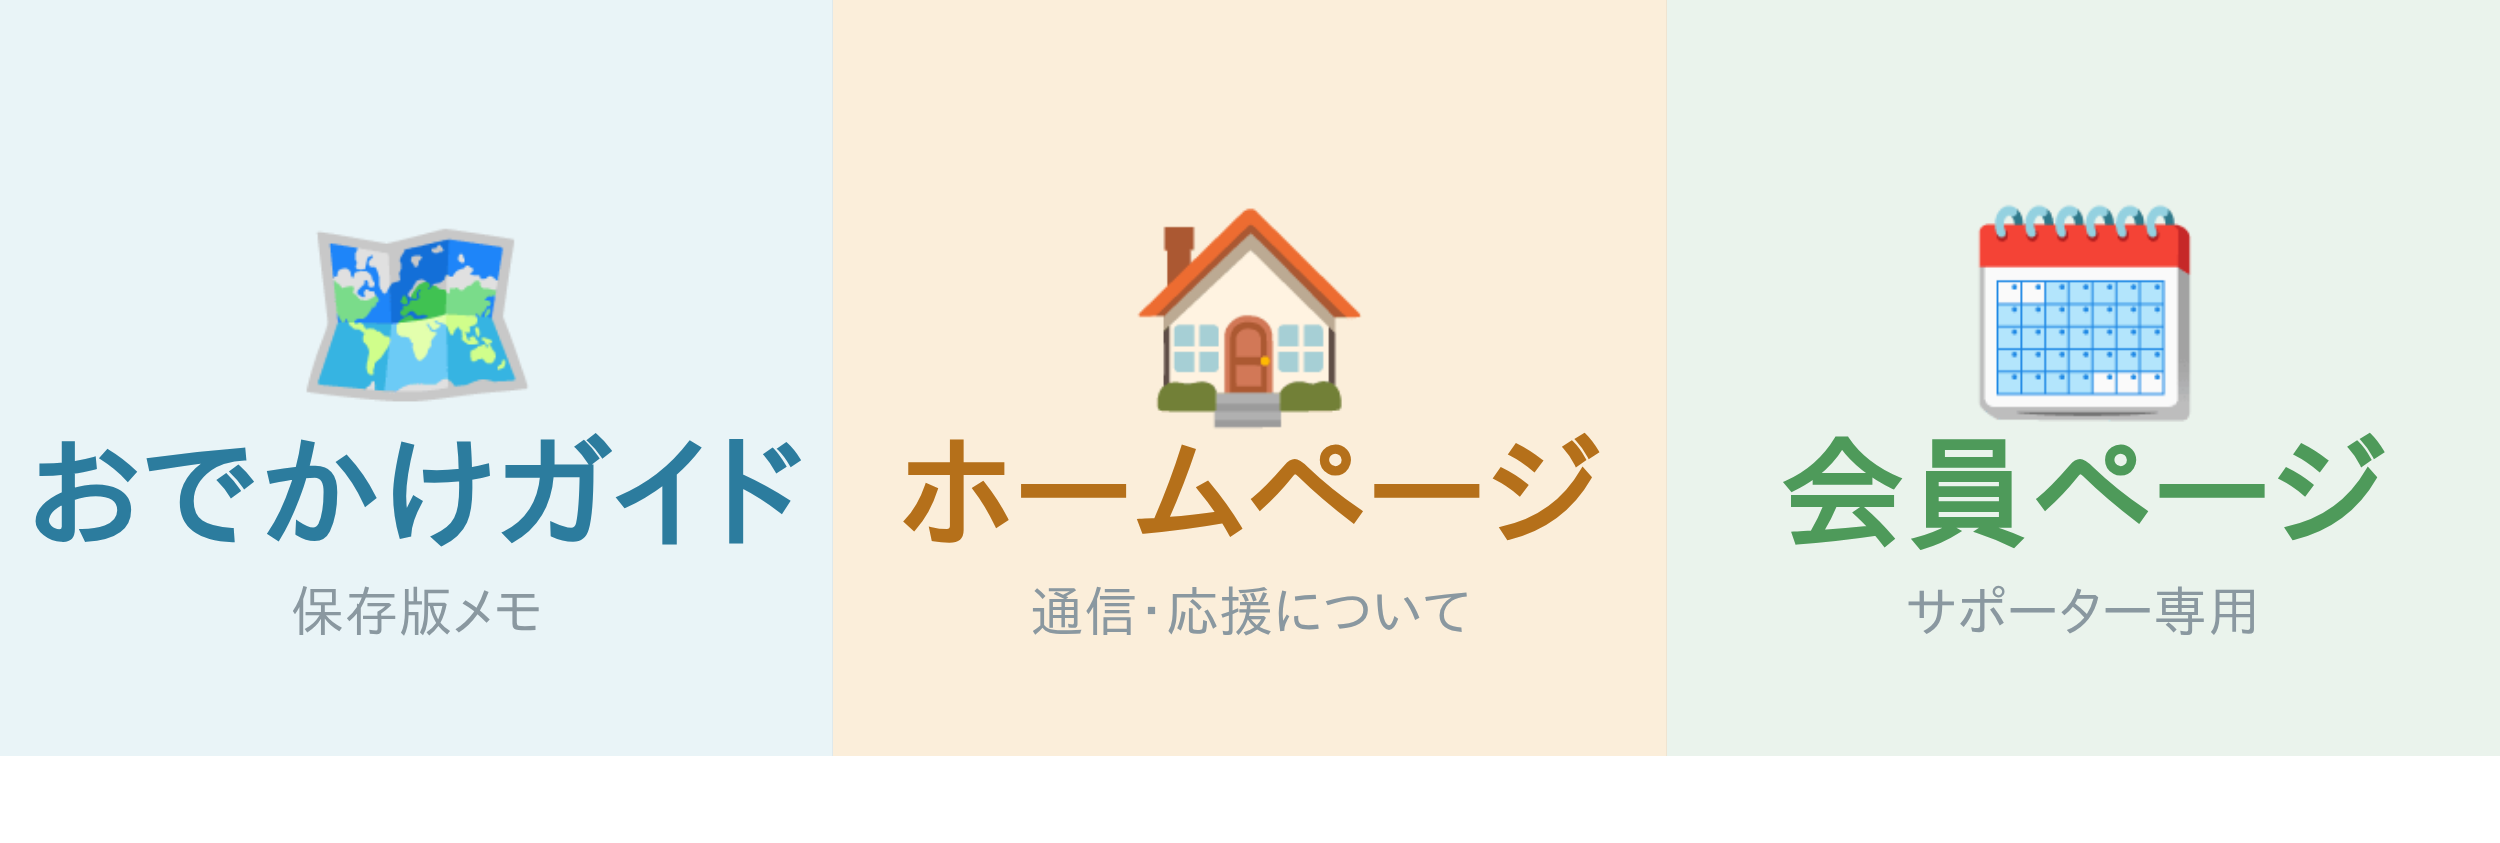
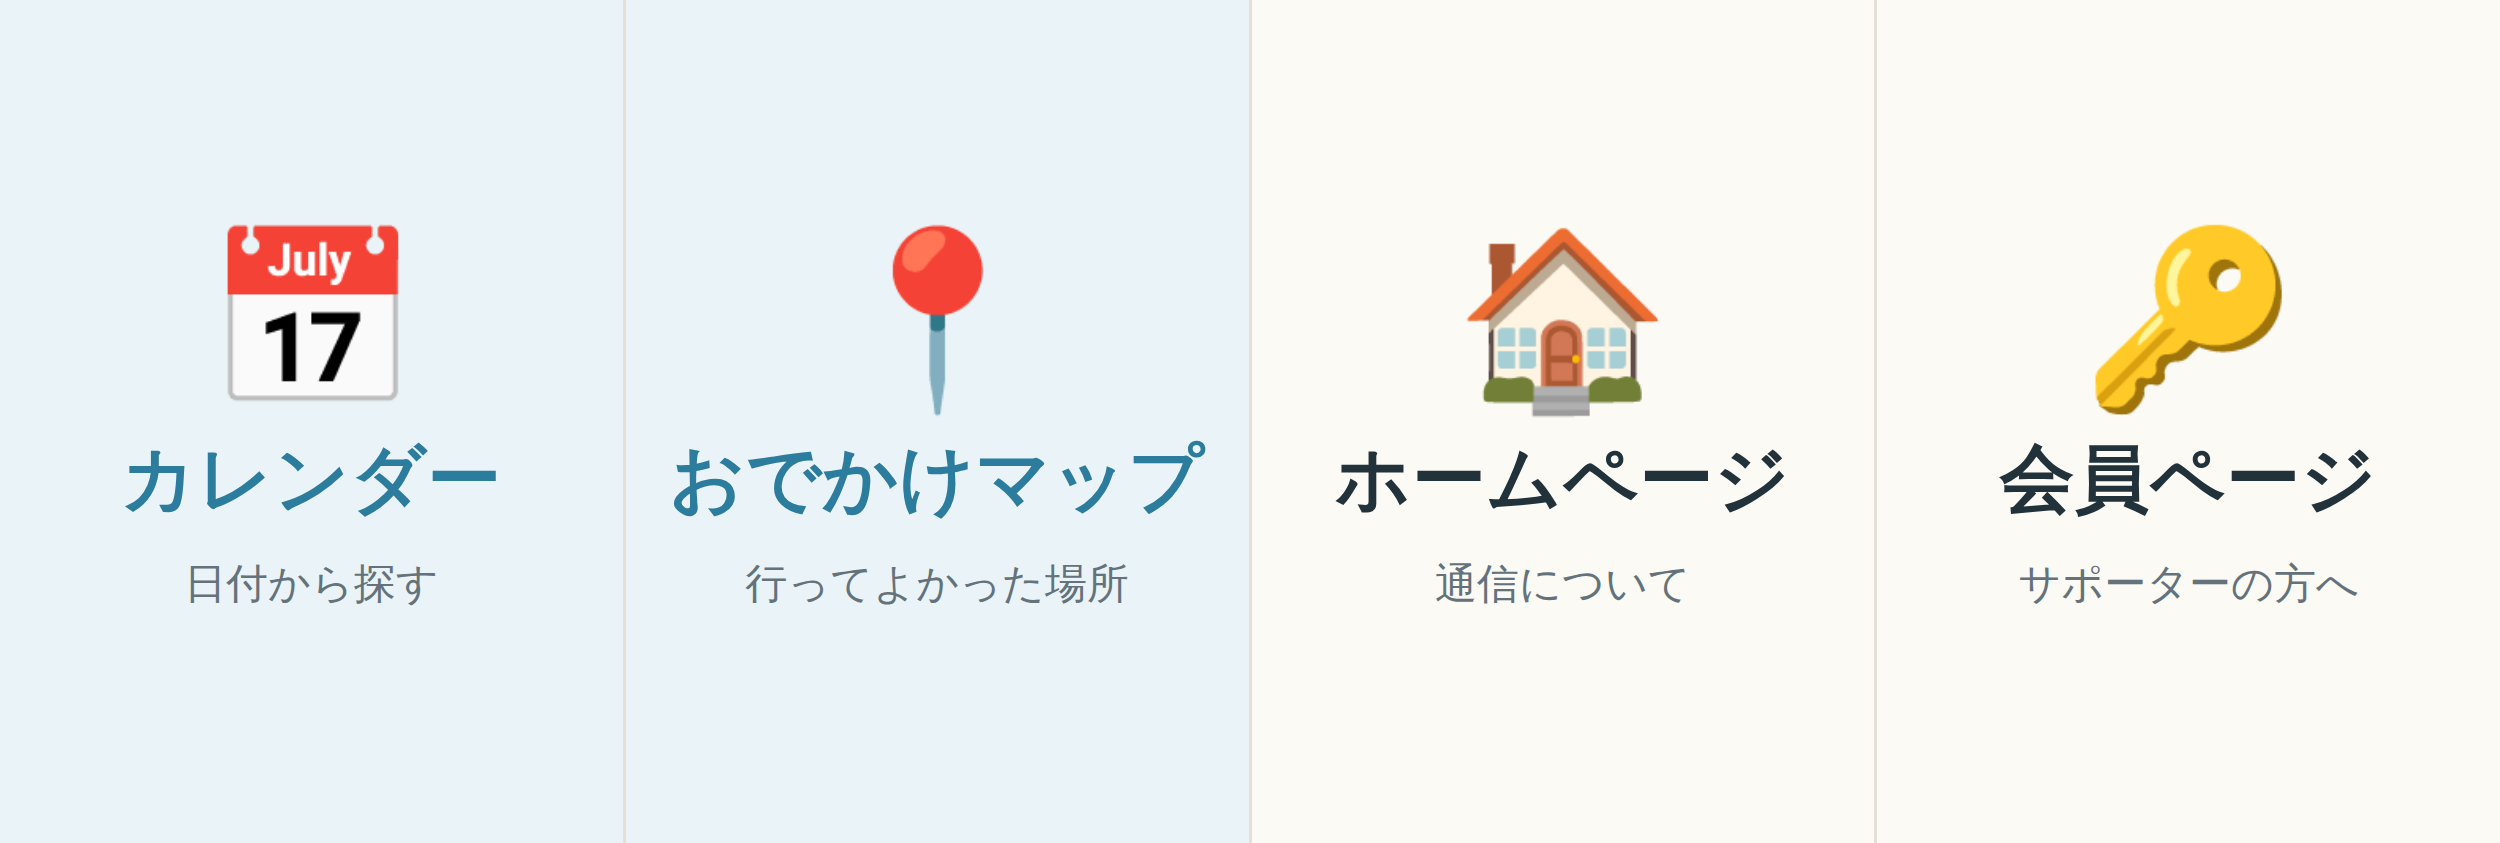
全ページ共通のサイトナビを追加し、マップとカレンダーを主役にする
- assets/bv-nav.css: index/calendar/map で共通のstickyナビ。
  index.html は共通トークンを読まないため、このCSSだけで完結させた
- 狭い画面ではラベルを詰めて1行に収める(390pxで90px→52px)
- おでかけガイドを導線から除外(オーナー判断: 実用性が低い)
  - ナビ・index.htmlのカードからリンク削除、noindex、sitemapから除外
  - ファイル自体は残す(復帰可能にするため)
- リッチメニューを3ボタン→4ボタンに刷新。カレンダーとマップを左半分に配置
  座標と設定先を share-kit.md に記載。会員ページは維持

Claude-Session: https://claude.ai/code/session_01TyaNTcqynAhK5RxtQUWRVv

diff --git a/docs/homepage/index.html b/docs/homepage/index.html
@@ -369,8 +369,21 @@
   ]
 }
 </script>
+<link rel="stylesheet" href="/assets/bv-nav.css">
 </head>
 <body>
+<nav class="bvnav" aria-label="サイト内">
+  <div class="bvnav-in">
+    <a class="bvnav-brand" href="/">ぼんぼやーじゅ通信</a>
+    <div class="bvnav-links">
+      <a href="/" aria-current="page" class="bv-hide-sm">通信について</a>
+      <a href="/calendar.html"><span class="bv-lg">おでかけ</span>カレンダー</a>
+      <a href="/map.html"><span class="bv-lg">おでかけ</span>マップ</a>
+      <a class="bvnav-cta" href="https://lin.ee/YtcfjnX" target="_blank" rel="noopener">LINE<span class="bv-lg">で受け取る</span></a>
+    </div>
+  </div>
+</nav>
+
 <header class="hero">
   <div class="hero-inner">
     <div class="eyebrow fade">Bon Voyage,</div>
@@ -445,7 +458,7 @@
         <span class="d">2026 / 8 / 26（水）号</span>
       </div>
       <div class="issue-body">
-        <p class="issue-asof">この号は <b>2026 / 8 / 26（水）</b> にお届けした内容です。「今週末」「本日」はその時点のことなので、いまの予定は<a href="/calendar.html">おでかけカレンダー</a>でご確認ください。</p>
+        <p class="issue-asof">この号は <b>2026 / 8 / 26（水）</b> にお届けした内容です。「今週末」「本日」はその時点のことなので、いまの予定は<a href="/calendar.html"><span class="bv-lg">おでかけ</span>カレンダー</a>でご確認ください。</p>
         <p class="issue-legend">〔目安〕👶あかちゃん(0-2) ／ 🧒未就学(3-6) ／ 🎒小学生　◎ぴったり ○だいじょうぶ △ひと工夫</p>
 
         <div class="blk">
@@ -500,15 +513,8 @@
           <span><span data-bv-post="on" hidden>「行ってよかった」を地元の家庭で持ち寄っている地図。<b>このページから直接書き込めます</b></span><span data-bv-post="off">「行ってよかった」を地元の家庭で持ち寄っている地図。<b>LINEでひとことお寄せいただけます</b></span></span>
         </span>
       </a>
-      <a class="tool" href="guide.html">
-        <span class="tool-ic">🌳</span>
-        <span class="tool-body">
-          <b>保存版：子連れおでかけガイド</b>
-          <span>じゃぶじゃぶ池・大きな公園・雨の日の室内あそび・電車でおでかけ</span>
-        </span>
-      </a>
     </div>
-    <p class="support-line">通信も、この3つの道具も、どなたでも無料でお使いいただけます。
+    <p class="support-line">通信も、この2つの道具も、どなたでも無料でお使いいただけます。
       続けていくための<a href="#more">応援のしかた</a>もご用意しています。</p>
   </section>
 

diff --git a/docs/homepage/assets/bv-nav.css b/docs/homepage/assets/bv-nav.css
@@ -1,0 +1,32 @@
+/* 全ページ共通のサイトナビ。
+   index / calendar / map のどれからでも行き来できるようにする。
+   index.html は共通トークンを読み込んでいないので、**このファイルだけで完結**させる。 */
+.bvnav{position:sticky;top:0;z-index:900;background:rgba(251,250,245,.92);
+  backdrop-filter:saturate(1.4) blur(10px);border-bottom:1px solid #E6E0D4;}
+.bvnav-in{max-width:960px;margin:0 auto;padding:9px 16px;display:flex;align-items:center;gap:14px;}
+.bvnav-brand{font-weight:800;font-size:15px;color:#2C7C9E;text-decoration:none;letter-spacing:.02em;flex:none;}
+.bvnav-links{display:flex;gap:4px;margin-left:auto;align-items:center;flex-wrap:wrap;justify-content:flex-end;}
+.bvnav-links a{font-size:13.5px;font-weight:700;color:#44555F;text-decoration:none;
+  padding:7px 11px;border-radius:999px;white-space:nowrap;}
+.bvnav-links a:hover{background:#EAF4F8;color:#2C7C9E;}
+.bvnav-links a[aria-current="page"]{background:#EAF4F8;color:#2C7C9E;}
+.bvnav-cta{background:#06C755 !important;color:#fff !important;padding:7px 14px !important;}
+.bvnav-cta:hover{background:#05b34c !important;color:#fff !important;}
+@media (max-width:520px){
+  .bvnav-in{padding:8px 12px;gap:8px;}
+  .bvnav-brand{font-size:13.5px;}
+  .bvnav-links a{font-size:12.5px;padding:6px 9px;}
+  .bvnav-cta{padding:6px 11px !important;}
+}
+@media (prefers-color-scheme:dark){
+  .bvnav{background:rgba(19,31,40,.92);border-bottom-color:#2A3B45;}
+  .bvnav-links a{color:#C6D4DB;}
+  .bvnav-links a:hover,.bvnav-links a[aria-current="page"]{background:#1D3944;color:#9AD4EA;}
+}
+
+/* 狭い画面では表記を詰めて1行に収める（stickyなので高さが命） */
+@media (max-width:560px){
+  .bv-hide-sm{display:none !important;}
+  .bv-lg{display:none;}
+  .bvnav-links{gap:2px;}
+}

diff --git a/docs/homepage/map.html b/docs/homepage/map.html
@@ -51,8 +51,21 @@
 
   #post { margin: 2.6rem 0 0; scroll-margin-top: 1.5rem; }
 </style>
+<link rel="stylesheet" href="/assets/bv-nav.css">
 </head>
 <body>
+<nav class="bvnav" aria-label="サイト内">
+  <div class="bvnav-in">
+    <a class="bvnav-brand" href="/">ぼんぼやーじゅ通信</a>
+    <div class="bvnav-links">
+      <a href="/" class="bv-hide-sm">通信について</a>
+      <a href="/calendar.html"><span class="bv-lg">おでかけ</span>カレンダー</a>
+      <a href="/map.html" aria-current="page"><span class="bv-lg">おでかけ</span>マップ</a>
+      <a class="bvnav-cta" href="https://lin.ee/YtcfjnX" target="_blank" rel="noopener">LINE<span class="bv-lg">で受け取る</span></a>
+    </div>
+  </div>
+</nav>
+
 <header class="ghead">
   <div class="ghead-in">
     <div class="eyebrow">Bon Voyage,</div>
@@ -60,9 +73,8 @@
     <p class="sub">花小金井まわりで「行ってよかった」場所を、地元の家庭の声とあわせて集めています。地図のピンをタップすると、その場所を地図で開けます。</p>
     <div class="count">掲載スポット 23件（地図のピン 19件）</div>
     <div class="nav-pills">
-      <a href="/">通信について</a>
-      <a href="/calendar.html">おでかけカレンダー</a>
-      <a href="/guide.html">おでかけガイド</a>
+      <a href="/" class="bv-hide-sm">通信について</a>
+      <a href="/calendar.html"><span class="bv-lg">おでかけ</span>カレンダー</a>
       <a href="#post">この地図にひとことを寄せる</a>
     </div>
   </div>

diff --git a/docs/homepage/calendar.html b/docs/homepage/calendar.html
@@ -39,8 +39,21 @@
   .fallback li { font-size: .9rem; }
   .stamp { font-size: .8rem; color: var(--ink-faint); margin-top: 2rem; }
 </style>
+<link rel="stylesheet" href="/assets/bv-nav.css">
 </head>
 <body>
+<nav class="bvnav" aria-label="サイト内">
+  <div class="bvnav-in">
+    <a class="bvnav-brand" href="/">ぼんぼやーじゅ通信</a>
+    <div class="bvnav-links">
+      <a href="/" class="bv-hide-sm">通信について</a>
+      <a href="/calendar.html" aria-current="page"><span class="bv-lg">おでかけ</span>カレンダー</a>
+      <a href="/map.html"><span class="bv-lg">おでかけ</span>マップ</a>
+      <a class="bvnav-cta" href="https://lin.ee/YtcfjnX" target="_blank" rel="noopener">LINE<span class="bv-lg">で受け取る</span></a>
+    </div>
+  </div>
+</nav>
+
 <header class="ghead">
   <div class="ghead-in">
     <div class="eyebrow">Bon Voyage,</div>
@@ -132,9 +145,8 @@
 
   <p class="stamp">情報の更新日: 2026-08-29　※日程・料金は変わることがあります。おでかけ前に各公式でご確認ください。</p>
   <div class="nav-pills">
-    <a href="/">通信について</a>
-    <a href="/map.html">おでかけマップ</a>
-    <a href="/guide.html">おでかけガイド</a>
+    <a href="/" class="bv-hide-sm">通信について</a>
+    <a href="/map.html"><span class="bv-lg">おでかけ</span>マップ</a>
   </div>
 
   <a class="back" href="/">← ぼんぼやーじゅ通信のトップへ</a>

diff --git a/docs/homepage/guide.html b/docs/homepage/guide.html
@@ -3,6 +3,7 @@
 <head>
 <meta charset="utf-8">
 <link rel="icon" href="/favicon.svg" type="image/svg+xml">
+<meta name="robots" content="noindex,nofollow">
 <meta name="viewport" content="width=device-width, initial-scale=1">
 <title>花小金井 子連れおでかけガイド｜ぼんぼやーじゅ通信</title>
 <meta name="description" content="花小金井・小平・西東京の子連れおでかけスポットまとめ。じゃぶじゃぶ池・大きな公園・図書館・児童館・電車でおでかけ・雨の日の室内あそびなど、地元の家族向けガイド。">

diff --git a/docs/share-kit.md b/docs/share-kit.md
@@ -133,11 +133,20 @@ https://bonvoya.nicomaru.tokyo/
 - **紹介文(説明)** … ホーム → 「ビジネスプロフィール」→ 基本情報の「紹介文」に貼付 → 公開
 - **背景画像・ボタン・プラグイン** … 「プロフィール」メニュー。背景を差し替え、ボタンに「ホームページ」= https://bonvoya.nicomaru.tokyo/ を追加すると◎
 - **あいさつメッセージ** … 上記「2」(友だち追加時に自動送信)
-- **リッチメニュー** … `docs/homepage/assets/richmenu.png`(2500×843・3ボタン)。タップ領域を左から均等3分割し、下記リンクを設定:
-  1. **おでかけガイド** → https://bonvoya.nicomaru.tokyo/guide.html （友だち追加特典の保存版ガイド）
-  2. **ホームページ** → https://bonvoya.nicomaru.tokyo/ （通信の紹介＋「応援する」サポーター導線もここ）
-  3. **会員ページ** → https://bonvoya.nicomaru.tokyo/m/s7f2ka/ （合言葉ゲート。サポーター専用）
-  ※有料（応援）訴求は**ホームページの応援セクションに一本化**。会員は「会員ページ」ボタンから入れるので、無料・有料が同じ1枚のメニューでも成り立つ。会員だけに出し分ける“真の出し分け”は、人数が増えたらLINE APIのユーザー別リッチメニューで対応（`docs/paid-roadmap.md`）。
+- **リッチメニュー** … `docs/homepage/assets/richmenu.png`（**2500×843・4ボタン**／2026-09-01 更新）。
+  **タップ領域は左から均等4分割**（各 625×843）。LINE Official Account Manager で下記を設定:
+
+  | # | 座標 (x, y, w, h) | ボタン | リンク先 |
+  |---|---|---|---|
+  | 1 | 0, 0, 625, 843 | **カレンダー** | https://bonvoya.nicomaru.tokyo/calendar.html |
+  | 2 | 625, 0, 625, 843 | **おでかけマップ** | https://bonvoya.nicomaru.tokyo/map.html |
+  | 3 | 1250, 0, 625, 843 | ホームページ | https://bonvoya.nicomaru.tokyo/ |
+  | 4 | 1875, 0, 625, 843 | 会員ページ | https://bonvoya.nicomaru.tokyo/m/s7f2ka/ |
+
+  > **変更の理由（オーナー判断 2026-09-01）**: おでかけガイドは実用性が低いと判断し、
+  > **カレンダーとマップを主役にした**。この2つは左半分（親指が届く側）に置く。
+  > 会員ページは残す（サポーターの入口が無くなるため）。
+  > 有料（応援）訴求は引き続き**ホームページの応援セクションに一本化**する。
 - (任意)**未認証→認証申請**: 無料。緑バッジ＋検索に出る。設定→アカウント認証をリクエスト
 
 ---
